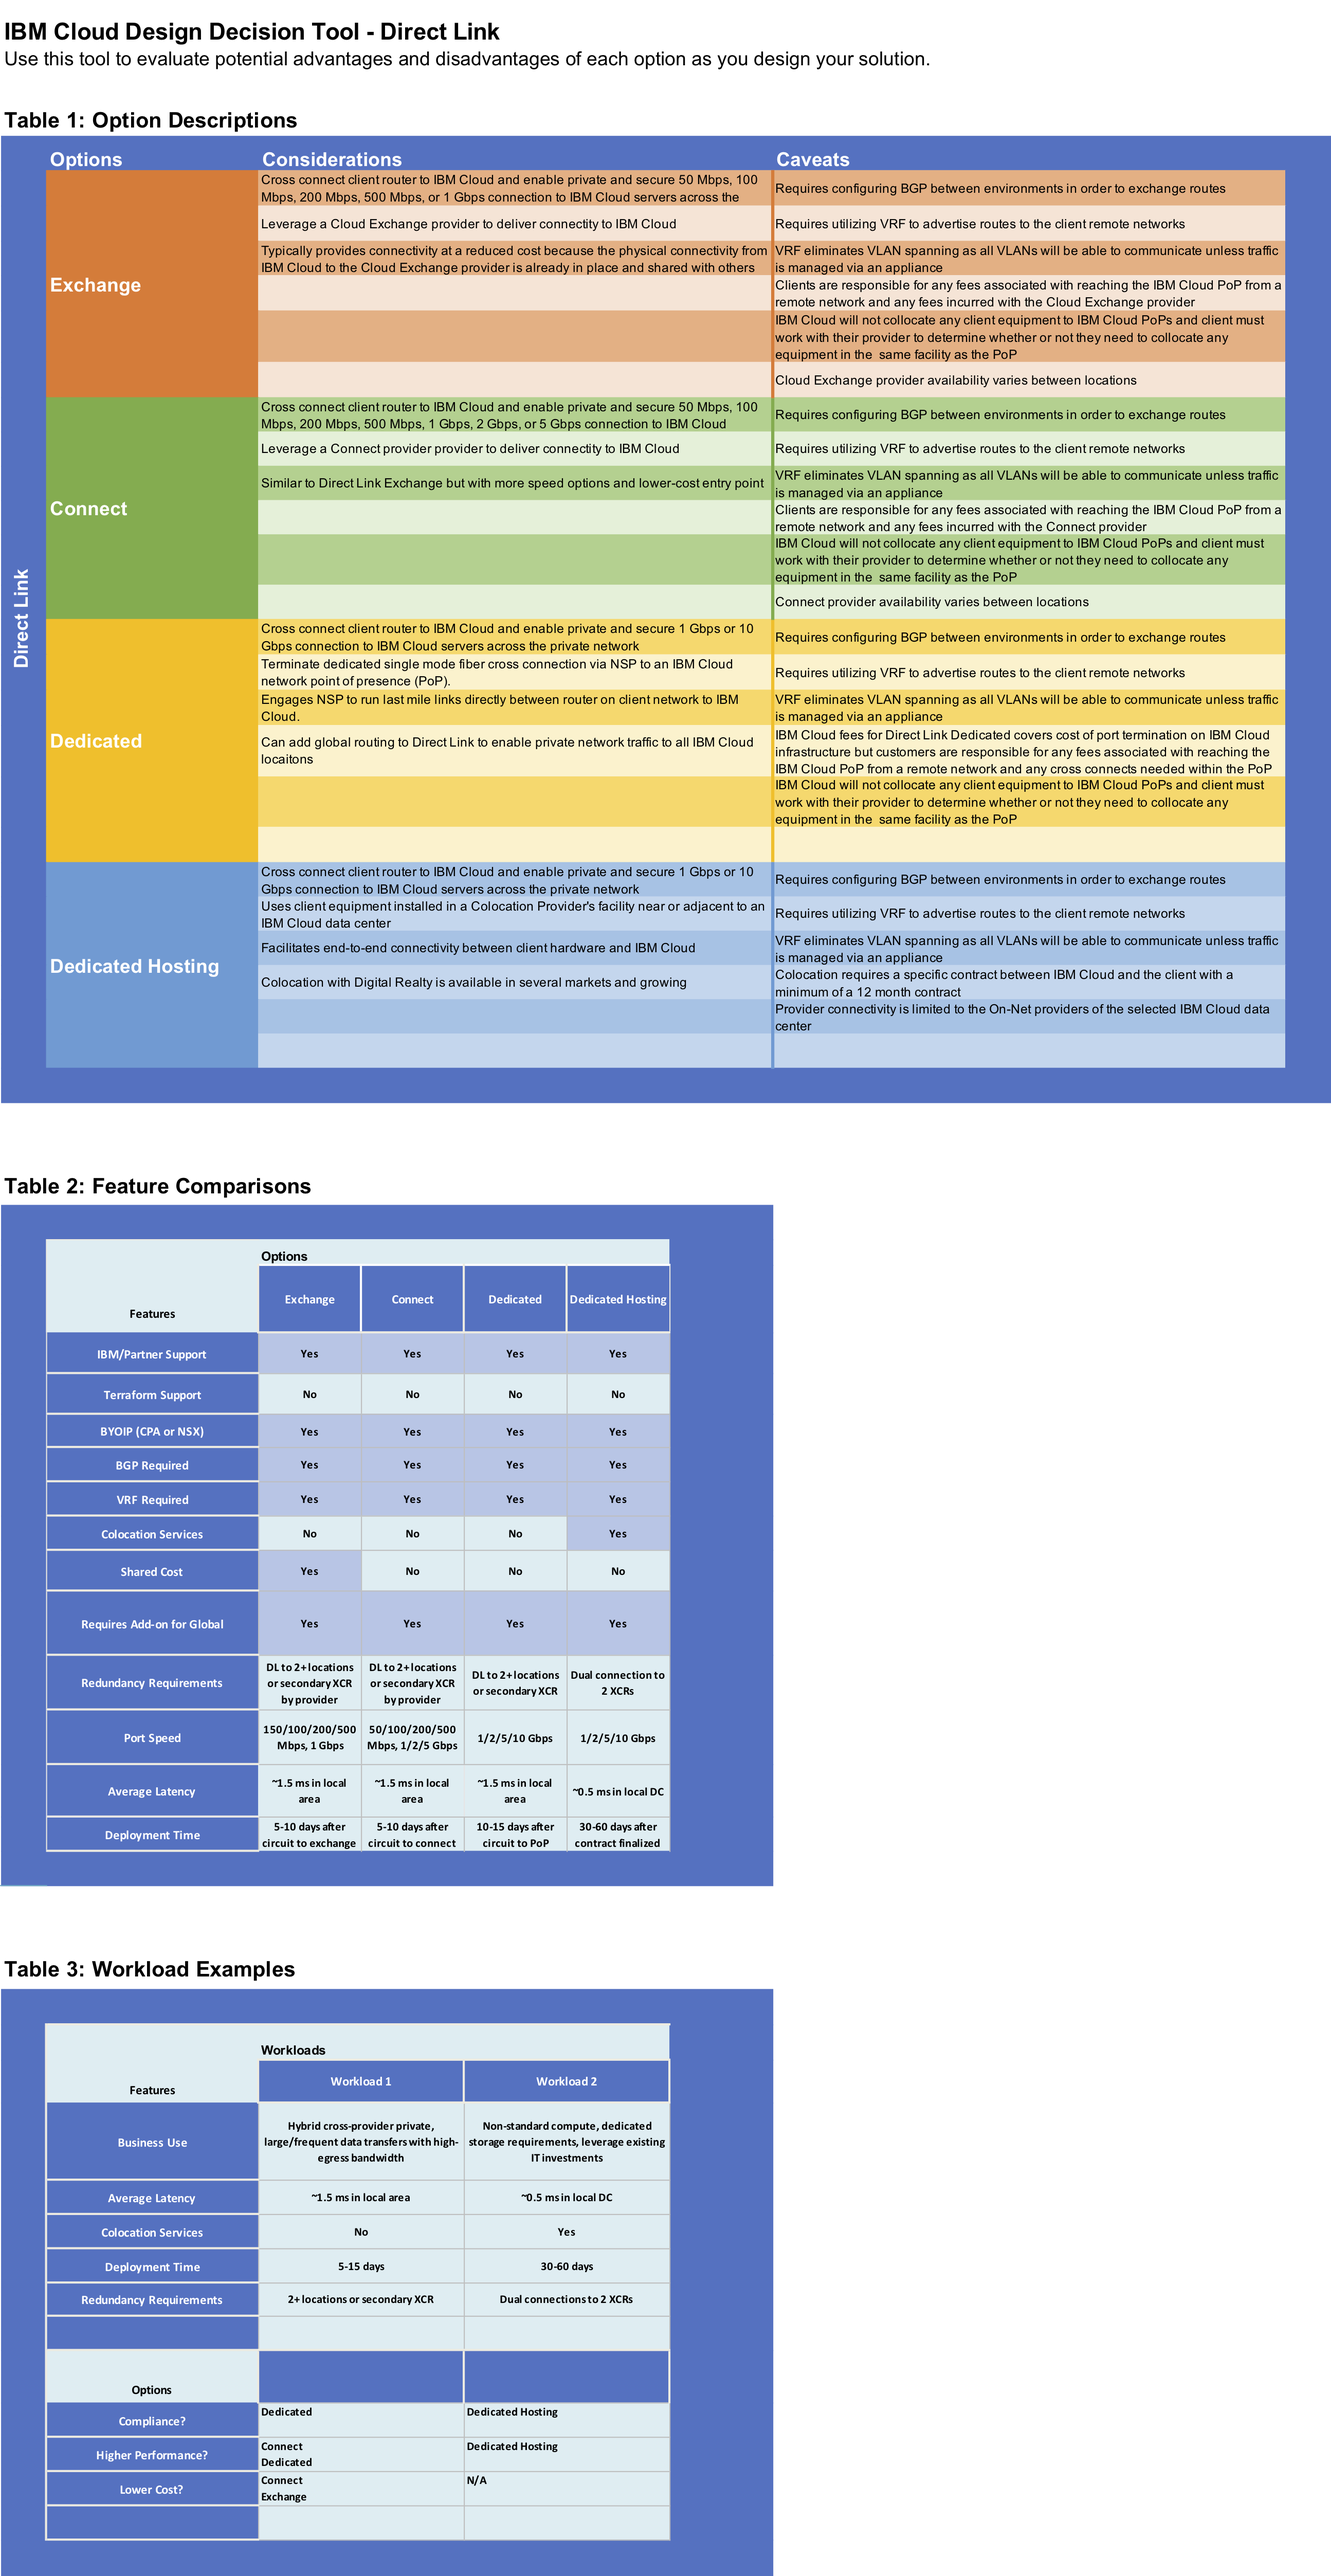
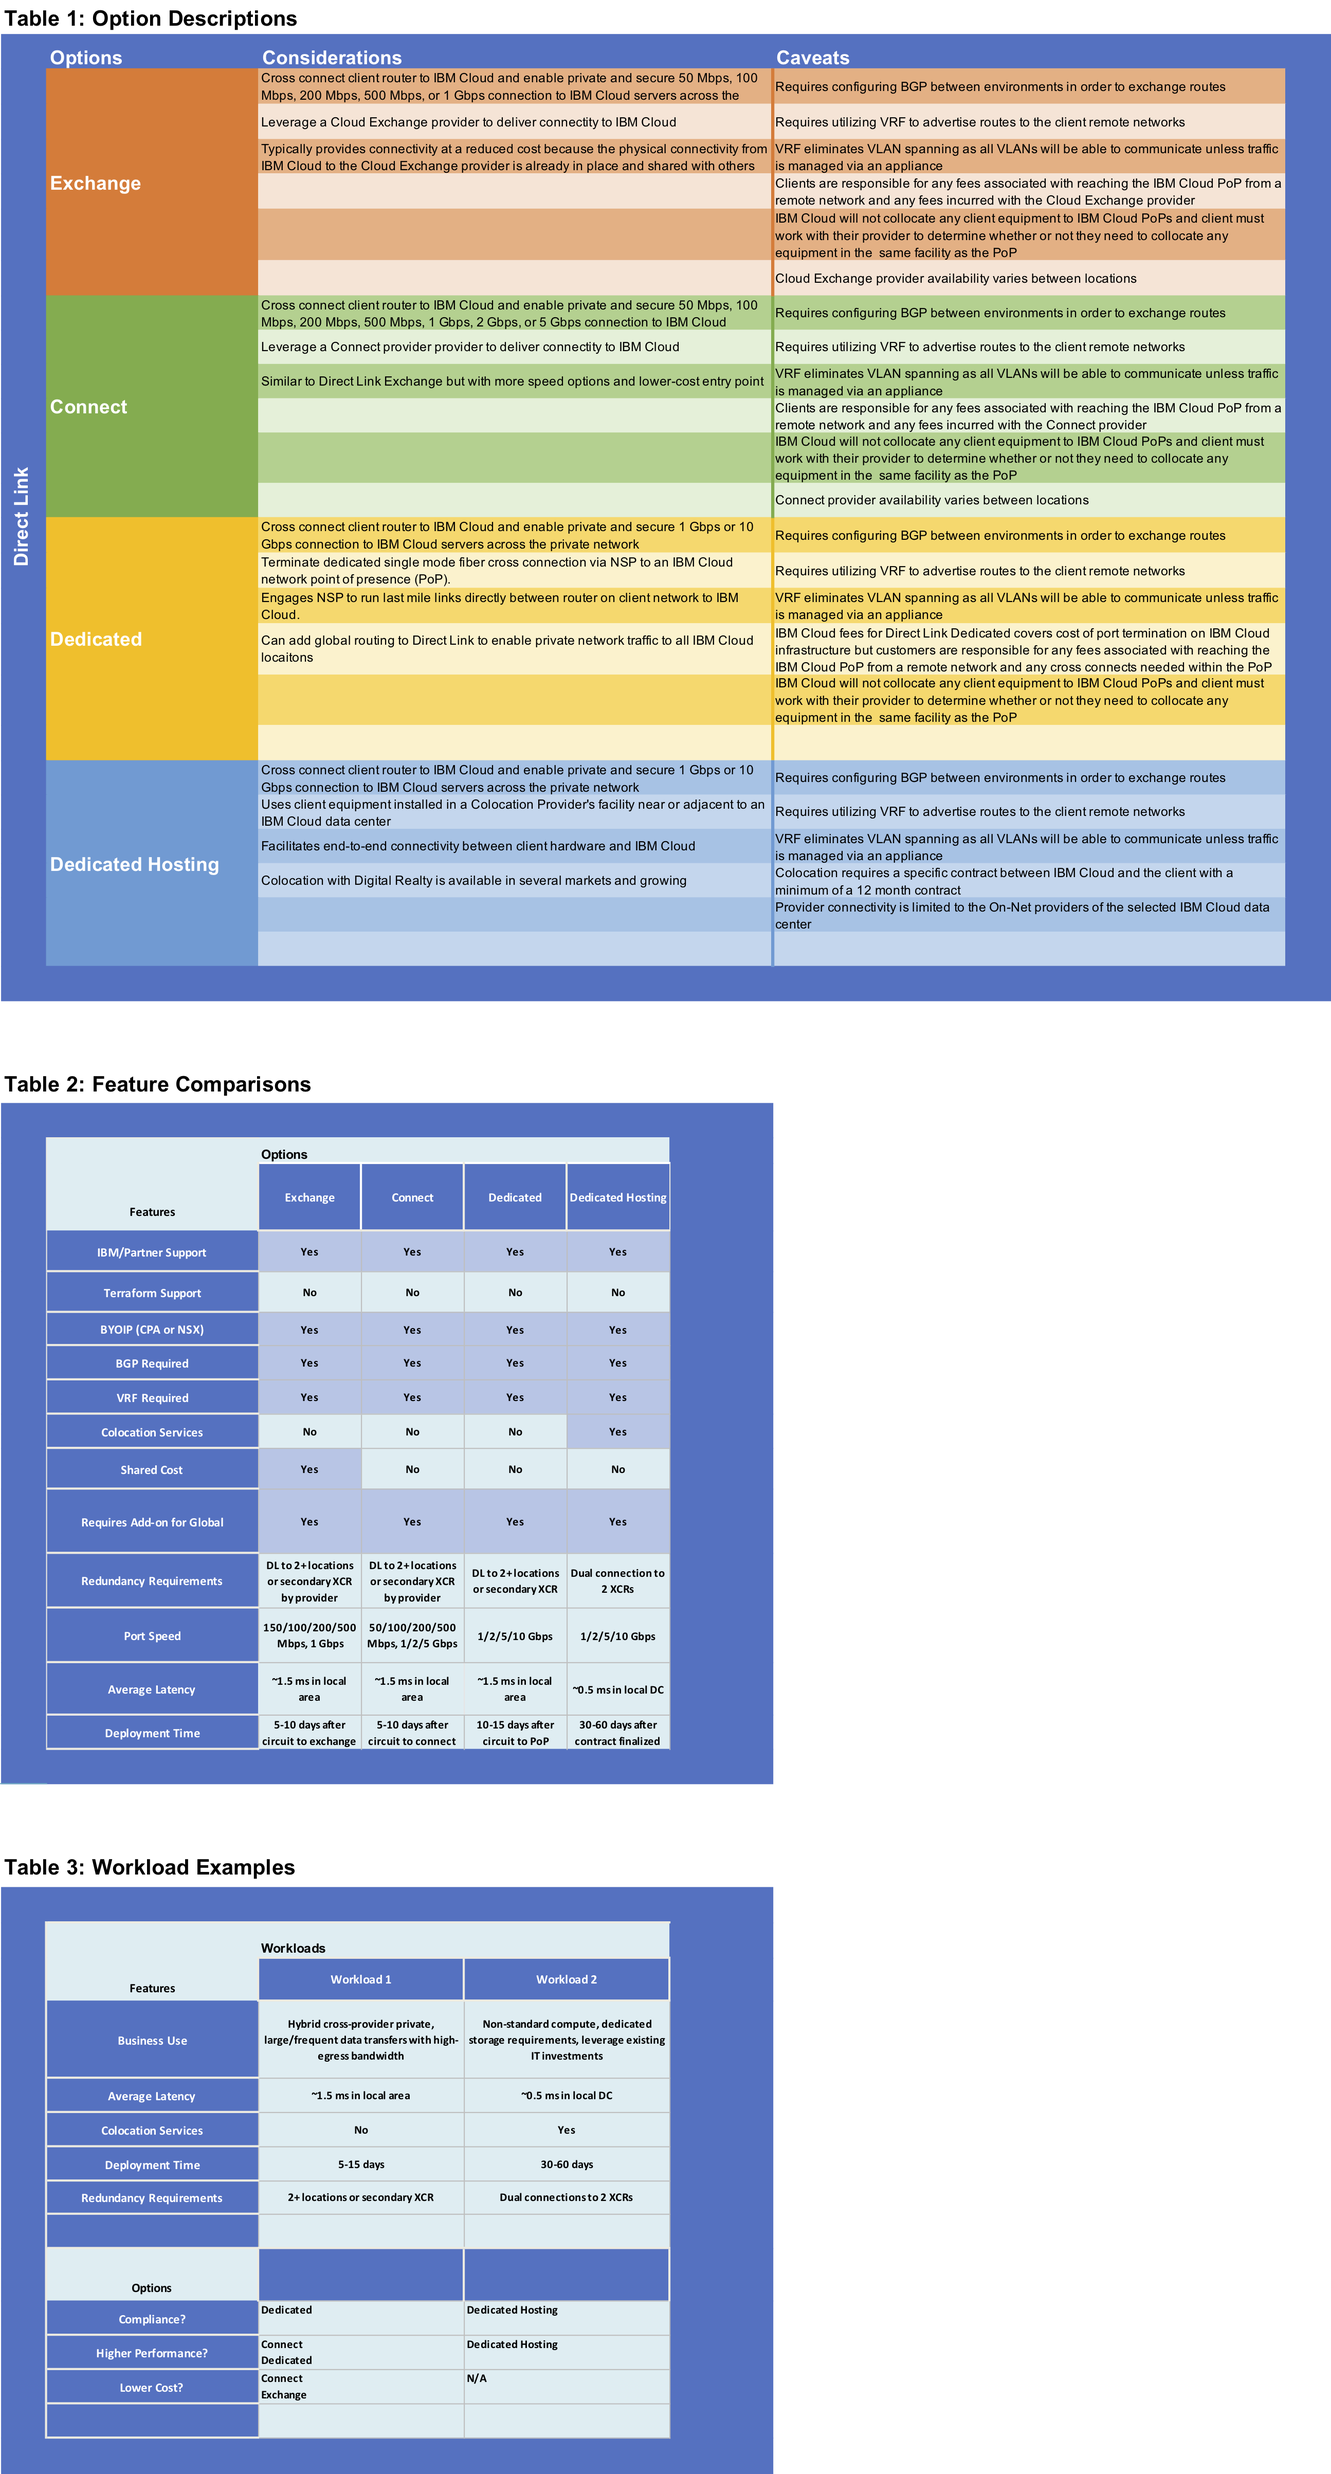
removed redundant header

diff --git a/README.md b/README.md
@@ -7,7 +7,7 @@ Compare alternatives to help you design and build your custom [IBM Cloud](https:
 | | | | | | | 
 | :---: | :---: | :---: | :---: | :---: | :---: |   
 | [![Compute](/images/compute_icon.png)](/components/compute.md)  | [![Storage](/images/storage_icon.png)](/components/storage.md) | [![Firewall](/images/firewall_icon.png)](/components/firewall.md) | [![VPN](/images/vpn_icon.png)](/components/vpn.md) | [![Load Balancer](/images/load_balancer_icon.png)](/components/load_balancer.md) | [![Direct Link](/images/direct_link_icon.png)](/components/direct_link.md) | 
-[![Message Queues](/images/message_queues_icon.png)](/components/message_queues.md) | [![Backup](/images/backup_icon.png)](/components/backup.md) | [![Disaster Recovery](/images/disaster_recovery_icon.png)](/components/disaster_recovery.md) | [![Availability](/images/availability_icon.png)](/components/availability.md) | [![Examples](/images/examples_icon.png)](/components/examples.md) | |
+[![Backup](/images/backup_icon.png)](/components/backup.md) | [![Disaster Recovery](/images/disaster_recovery_icon.png)](/components/disaster_recovery.md) | [![Availability](/images/availability_icon.png)](/components/availability.md) | [![Message Queues](/images/message_queues_icon.png)](/components/message_queues.md) | [![Examples](/images/examples_icon.png)](/components/examples.md) | |
 <!--
 | [![BYOIP](/images/byoip_icon.png)](byoip.md) |
 | [![CDN](/images/cdn_icon.png)](cdn.md) | 
